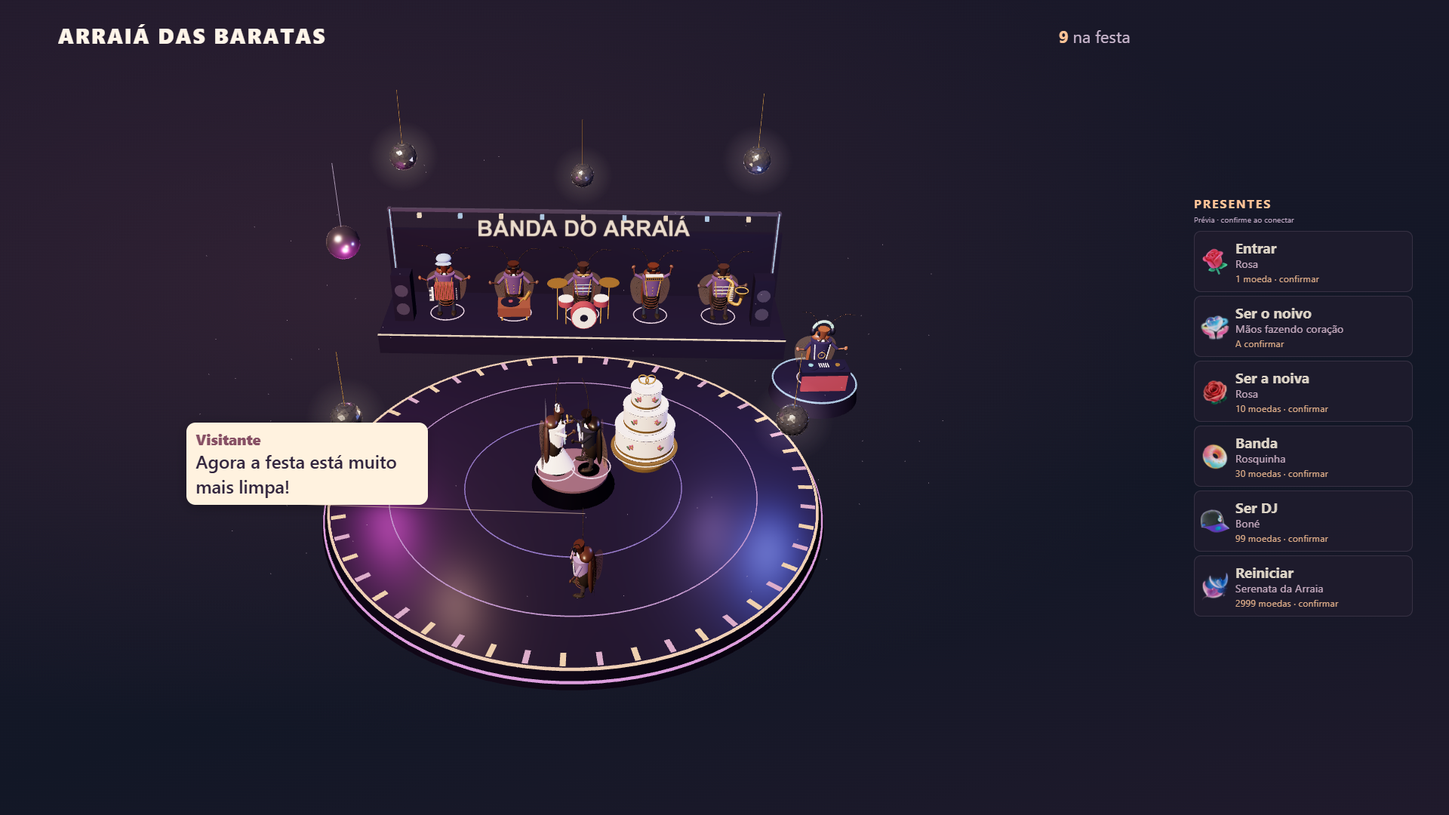
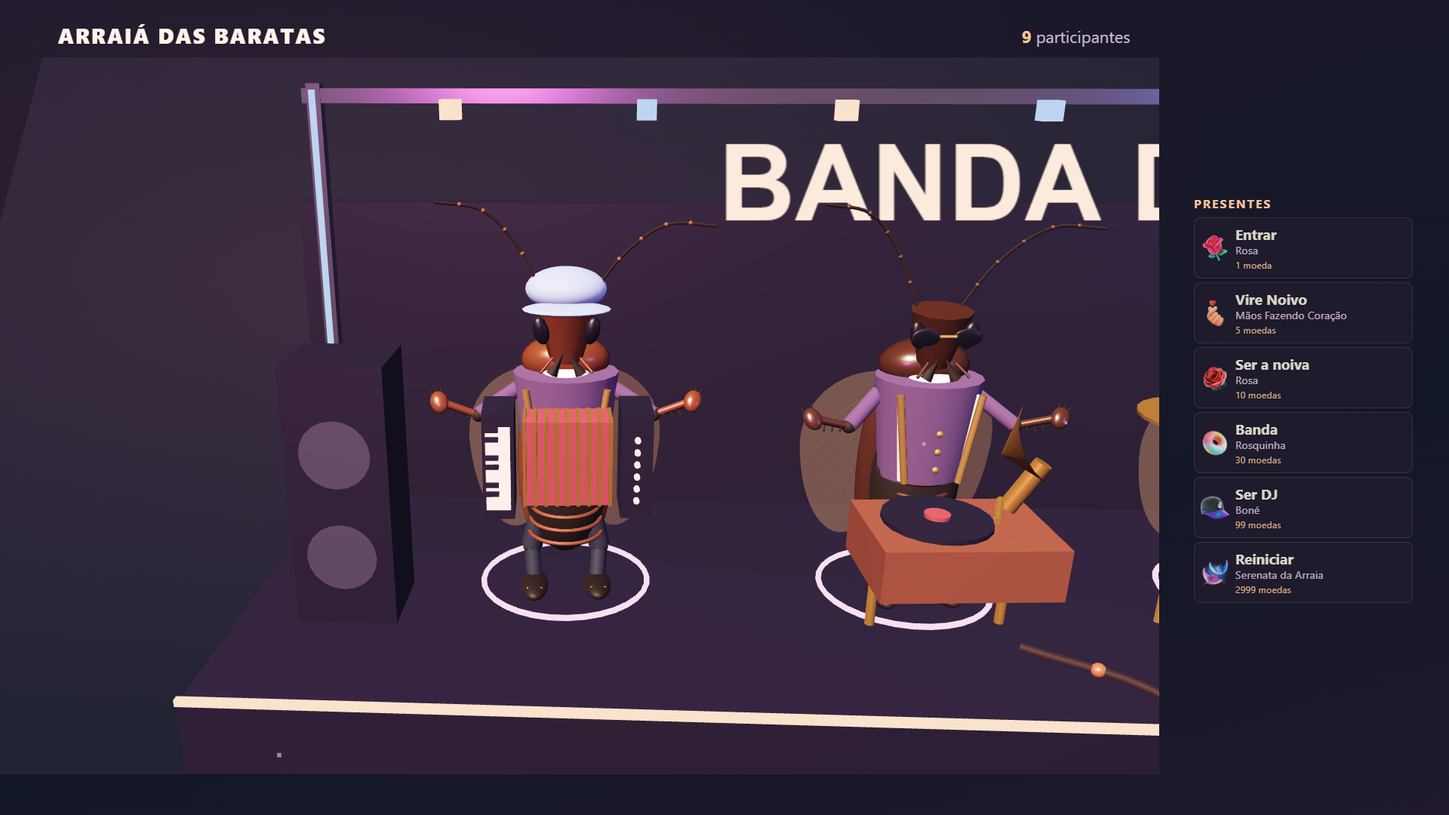
Corrige Finger Heart e eventos TikTok, povoa pista e adiciona luzes de balada

diff --git a/test.js b/test.js
@@ -1,7 +1,7 @@
 import test from 'node:test';
 import assert from 'node:assert/strict';
 import {fresh,gift,comment,prune,settings,upgradeState,partyRole,clearParty,removePerson} from './wheel.js';
-import {sceneCast,BAND} from './public/party-layout.js';
+import {sceneCast,BAND,AMBIENT_GUEST_COUNT} from './public/party-layout.js';
 import {CameraDirector} from './public/camera-director.js';
 import {placeProjectedBubble,overlaps} from './public/layout.js';
 import {videoURL,downloadArgs} from './media.js';
@@ -19,12 +19,13 @@ test('rosa de dez moedas escolhe noiva sem colidir com rosa comum',()=>{
  assert.equal(send(s,'Bia','Rosa',99),null);assert.equal(send(s,'Bia','Rosa',undefined),null);
 });
 test('noivo usa mãos coração; o Anel antigo não concede papel',()=>{
- const s=fresh();send(s,'A','Mãos fazendo coração',null);assert.equal(s.couple.groomId,'A');
+ const s=fresh();send(s,'A','Mãos Fazendo Coração',5);assert.equal(s.couple.groomId,'A');
  assert.equal(send(s,'B','Anel',30),null);assert.equal(send(s,'B','Heart Me',1,200),null);
- send(s,'B','Hand Heart',100,300);assert.equal(s.couple.groomId,'B');assert.equal(partyRole(s,'A'),null);
+ assert.equal(send(s,'B','Hand Heart',100),null);assert.equal(send(s,'B','Mãos em Coração',100),null);assert.equal(send(s,'B','Heart Hands',5),null);
+ send(s,'B','Finger Heart',5,300);assert.equal(s.couple.groomId,'B');assert.equal(partyRole(s,'A'),null);
 });
 test('cada doador tem um papel; noiva e noivo são disputados separadamente',()=>{
- const s=fresh();send(s,'A','Heart Hands',null);send(s,'B','Rosa',10);
+ const s=fresh();send(s,'A','Finger Heart',5);send(s,'B','Rosa',10);
  send(s,'C','Rosa',10,200);assert.equal(s.couple.groomId,'A');assert.equal(s.couple.brideId,'C');
  send(s,'A','Boné',99,300);assert.equal(s.couple.groomId,null);assert.equal(s.stage.djId,'A');
  send(s,'C','Rosquinha',30,400);assert.equal(s.couple.brideId,null);assert.equal(partyRole(s,'C').kind,'band');
@@ -36,7 +37,7 @@ test('banda tem cinco vagas e o sexto doador substitui a vaga mais antiga',()=>{
  send(s,'B5','Donut',30,300);assert.equal(s.people.filter(p=>p.id==='B5').length,1);assert.equal(s.stage.bandIds.filter(x=>x==='B5').length,1);
 });
 test('papéis continuam após vencer o tempo normal; substituídos retornam à roda',()=>{
- const s=fresh();send(s,'N','Heart Hands',null);send(s,'V','Rose',10);send(s,'DJ','Cap',99);send(s,'M','Donut',30);send(s,'P','Rose',1);
+ const s=fresh();send(s,'N','Finger Heart',5);send(s,'V','Rose',10);send(s,'DJ','Cap',99);send(s,'M','Donut',30);send(s,'P','Rose',1);
  prune(s,10000000);assert.equal(s.people.length,4);assert.equal(comment(s,{uniqueId:'DJ',comment:'oi'},10000000),true);
  send(s,'DJ2','Cap',99,10000001);assert.equal(partyRole(s,'DJ'),null);prune(s,20000000);assert.ok(!s.people.find(p=>p.id==='DJ'));
 });
@@ -51,7 +52,7 @@ test('combos incompletos e mensagens repetidas não reaplicam papéis',()=>{
  assert.equal(send(s,'A','Donut',30,300,{giftType:1,repeatEnd:true,msgId:'x'}),null);
 });
 test('serenata exige nome/ID correto e 2999 por unidade; reinicia toda a festa e áudio',()=>{
- const s=fresh();send(s,'N','Heart Hands',null);send(s,'V','Rose',10);send(s,'M','Donut',30);send(s,'D','Cap',99);
+ const s=fresh();send(s,'N','Finger Heart',5);send(s,'V','Rose',10);send(s,'M','Donut',30);send(s,'D','Cap',99);
  activate(s.music,'teste.mp3',100);s.music.volume=.4;const epoch=s.partyEpoch;
  assert.equal(send(s,'X','Rose',2999),null);
  assert.equal(send(s,'X','Serenata de arraia',1,200,{repeatCount:2999}),null);
@@ -68,7 +69,7 @@ test('migração instala mapa novo e mantém configurações; remover limpa o pa
  assert.throws(()=>settings({rules:[{effect:'reset',coins:99}]},s.settings));
 });
 test('cena contém cinco instrumentos, DJ e casal; nomes de doadores sem duplicatas',()=>{
- const s=fresh();assert.equal(sceneCast(s).length,8);assert.equal(BAND.length,5);
+ const s=fresh();assert.equal(sceneCast(s).length,8+AMBIENT_GUEST_COUNT);assert.equal(BAND.length,5);
  send(s,'A','Rose',1);send(s,'B','Donut',30);send(s,'C','Rose',10);send(s,'D','Cap',99);
  const cast=sceneCast(s);assert.equal(new Set(cast.map(p=>p.id)).size,cast.length);assert.equal(cast.filter(p=>p.stageRole==='band').length,5);
  assert.equal(cast.find(p=>p.id==='B').instrument,'accordion');assert.equal(cast.find(p=>p.id==='C').weddingRole,'bride');assert.equal(cast.find(p=>p.id==='D').instrument,'dj');
@@ -99,7 +100,7 @@ test('áudio protege contra eventos atrasados e controles inválidos',()=>{
 test('catálogo liga nome, imagem, ID e preço reais; não adivinha presentes pelo valor',()=>{
  const s=fresh(),gifts=sanitizeGifts([
   {id:5655,name:'Rose',diamond_count:1,image:{url_list:['https://example.com/rose.png']}},
-  {id:400,name:'Heart Me',diamond_count:1},{id:401,name:'Hand Heart',diamond_count:100},
+  {id:400,name:'Heart Me',diamond_count:1},{id:401,name:'Finger Heart',diamond_count:5},
   {id:402,name:'Outro presente',diamond_count:10},{id:403,name:'Doughnut',diamond_count:30},
   {id:404,name:'Cap',diamond_count:99},{id:405,name:'Serenata da Arraia',diamond_count:2999},
   {id:406,name:'Inválido',diamond_count:30,image:'javascript:bad'}
@@ -107,9 +108,9 @@ test('catálogo liga nome, imagem, ID e preço reais; não adivinha presentes pe
  const cards=resolveGiftCatalog(s.settings.rules,gifts,'ready'),bound=catalogRules(s.settings.rules,cards);
  assert.equal(cards.find(g=>g.effect==='marry').id,'401');assert.equal(cards.find(g=>g.effect==='bride').status,'unavailable');
  assert.equal(cards.find(g=>g.effect==='reset').name,'Serenata da Arraia');assert.equal(gifts.at(-1).image,'');
- assert.equal(gift(s,{uniqueId:'A',giftId:401,giftName:'nome localizado',diamondCount:100},100,bound)?.effect,'marry');
- assert.equal(gift(s,{uniqueId:'B',giftId:400,giftName:'Hand Heart',diamondCount:100},200,bound),null);
- assert.equal(gift(s,{uniqueId:'B',giftId:401,giftName:'Hand Heart',diamondCount:1},200,bound),null);
+ assert.equal(gift(s,{uniqueId:'A',giftId:401,giftName:'nome localizado',diamondCount:5},100,bound)?.effect,'marry');
+ assert.equal(gift(s,{uniqueId:'B',giftId:400,giftName:'Finger Heart',diamondCount:5},200,bound),null);
+ assert.equal(gift(s,{uniqueId:'B',giftId:401,giftName:'Finger Heart',diamondCount:1},200,bound),null);
  assert.equal(cards[0].image,'https://example.com/rose.png');
 });
 test('catálogo ambíguo exige seleção por ID; offline não afirma confirmação',()=>{
@@ -158,6 +159,31 @@ test('ícones são os arquivos TikTok de cada presente, sem confundir as rosas o
  assert.ok(cards.every(g=>g.image.startsWith('/gifts/')));
  assert.notEqual(cards.find(g=>g.effect==='join').image,cards.find(g=>g.effect==='bride').image);
  assert.equal(cards.find(g=>g.effect==='reset').image,'/gifts/ray-serenade.webp');
+ assert.equal(cards.find(g=>g.effect==='marry').image,'/gifts/finger-heart.webp');
+ assert.equal(cards.find(g=>g.effect==='marry').coins,5);
  assert.equal(send(s,'A','Ray Serenade',2999)?.effect,'reset');
  s.settings.rules[2].names='Item customizado';assert.equal(resolveGiftCatalog(s.settings.rules)[2].image,'');
+});
+test('eventos modernos leem extendedGiftInfo e aplicam apenas o fim do combo uma vez',()=>{
+ const s=fresh(),event={user:{uniqueId:'actual-user',nickname:'Pessoa'},giftId:42,giftDetails:{giftType:1},extendedGiftInfo:{name:'Finger Heart',diamond_count:5},common:{msgId:'gift-1'},repeatCount:3};
+ assert.equal(gift(s,{...event,repeatEnd:false},100),null);
+ assert.equal(gift(s,{...event,repeatEnd:true},200)?.effect,'marry');
+ assert.equal(s.couple.groomId,'actual-user');assert.equal(gift(s,{...event,repeatEnd:true},300),null);
+ assert.equal(s.people[0].name,'Pessoa');
+});
+test('migração do noivo troca nome, preço e IDs antigos sem mudar os outros presentes',()=>{
+ const s=fresh();s.schemaVersion=5;s.settings.rules[1]={...s.settings.rules[1],names:'Hand Heart,Mãos em coração',coins:100,ids:'401'};
+ const others=s.settings.rules.filter(r=>r.effect!=='marry');upgradeState(s);upgradeState(s);
+ const rule=s.settings.rules.find(r=>r.effect==='marry');assert.equal(rule.coins,5);assert.equal(rule.ids,'');assert.ok(!rule.names.includes('Hand Heart'));
+ assert.deepEqual(s.settings.rules.filter(r=>r.effect!=='marry'),others);
+ assert.equal(send(s,'wrong','Hand Heart',100),null);assert.equal(send(s,'right','Finger Heart',5)?.effect,'marry');
+});
+test('baratas de ambiente dão volume sem virar doadores, eventos ou participantes reais',()=>{
+ const s=fresh(),empty=sceneCast(s),ambient=empty.filter(p=>p.ambient);
+ assert.equal(ambient.length,AMBIENT_GUEST_COUNT);assert.ok(ambient.every(p=>!p.donor&&!p.name));assert.equal(s.people.length,0);
+ send(s,'real','Rose',1);const full=sceneCast(s);assert.equal(full.filter(p=>p.ambient).length,AMBIENT_GUEST_COUNT-1);
+ assert.equal(full.filter(p=>p.donor).length,1);assert.equal(s.people.length,1);
+ for(let i=0;i<AMBIENT_GUEST_COUNT;i++)send(s,'p'+i,'Rose',1);
+ assert.equal(sceneCast(s).filter(p=>p.ambient).length,0);
+ clearParty(s);assert.equal(sceneCast(s).filter(p=>p.ambient).length,AMBIENT_GUEST_COUNT);
 });

diff --git a/public/index.html b/public/index.html
@@ -3,7 +3,7 @@
 <main id="studio"><header><div><div class="eyebrow">CENTRAL DE CONTROLE</div><h1>O baile das baratas<span>.</span></h1><p>Uma rosa, uma barata em 3D. A sua comunidade vira a pista.</p></div><a class="button outline" href="/overlay.html" target="_blank">↗ Abrir cena da live</a></header>
 <section class="connection"><span class="status-led" id="statusLed"></span><div class="status-copy"><strong id="status">Conectando ao servidor…</strong><small id="transport">Eventos em tempo real</small></div><form id="connectForm"><input id="username" aria-label="Usuário TikTok" placeholder="@seuusuario" required><button>Conectar TikTok</button><button type="button" class="quiet" id="disconnect">Desconectar</button></form></section>
 <div class="stats"><article><span>NA RODA AGORA</span><strong id="peopleCount">0 <small>participantes</small></strong><i>↗</i></article><article><span>ROSAS RECEBIDAS</span><strong id="roseCount">0 <small>nesta sessão</small></strong><i>🌹</i></article><article><span>ÁUDIO DA LIVE</span><strong id="audioMetric" class="audio-metric">Pronto <small>baixar, converter e tocar</small></strong><i>♫</i></article></div>
-<div class="studio-grid"><section class="card preview-card"><div class="card-head"><div><span class="eyebrow">PALCO INTERATIVO</span><h2>A pista das baratas</h2></div><span class="pill">WEBGL · 3D</span></div><div class="preview-wrap"><iframe src="/overlay.html?preview=1" title="Prévia da cena vertical"></iframe><div class="preview-note"><span>🌹</span><strong>Uma rosa. Uma barata. Um show à parte.</strong><p>Baratas humanoides com roupas, acessórios e passos próprios. Nomes aparecem no destaque; até dois comentários ocupam espaços livres.</p><a href="/overlay.html" target="_blank">Ver em tela cheia ↗</a><div class="mini-rule">🫶 Noivo <small>Mãos fazendo coração · confirmar na live</small></div><div class="mini-rule">👰 Noiva <small>Rosa · 10 moedas</small></div><div class="mini-rule">🍩 Banda <small>Rosquinha · 30 moedas</small></div><div class="mini-rule">🧢 DJ <small>Boné · 99 moedas</small></div><div class="mini-rule">🎆 Nova festa <small>Serenata · 2999 moedas</small></div></div></div><div class="preview-footer">● Prévia sincronizada <span>OBS / TikTok Live Studio</span></div></section>
+<div class="studio-grid"><section class="card preview-card"><div class="card-head"><div><span class="eyebrow">PALCO INTERATIVO</span><h2>A pista das baratas</h2></div><span class="pill">WEBGL · 3D</span></div><div class="preview-wrap"><iframe src="/overlay.html?preview=1" title="Prévia da cena vertical"></iframe><div class="preview-note"><span>🌹</span><strong>Uma rosa. Uma barata. Um show à parte.</strong><p>Baratas humanoides com roupas, acessórios e passos próprios. Nomes aparecem no destaque; até dois comentários ocupam espaços livres.</p><a href="/overlay.html" target="_blank">Ver em tela cheia ↗</a><div class="mini-rule">🫰 Noivo <small>Mãos Fazendo Coração · 5 moedas</small></div><div class="mini-rule">👰 Noiva <small>Rosa · 10 moedas</small></div><div class="mini-rule">🍩 Banda <small>Rosquinha · 30 moedas</small></div><div class="mini-rule">🧢 DJ <small>Boné · 99 moedas</small></div><div class="mini-rule">🎆 Nova festa <small>Serenata · 2999 moedas</small></div></div></div><div class="preview-footer">● Prévia sincronizada <span>OBS / TikTok Live Studio</span></div></section>
 <div><section class="card"><div class="card-head"><h2>Laboratório de eventos</h2><span class="pill muted">SIMULADOR</span></div><p>Teste sua cena antes de abrir a live.</p><label for="testUser">Nome do participante</label><input id="testUser" value="Marina" maxlength="40"><div id="giftButtons" class="gift-buttons"></div><form id="commentForm"><label for="testComment">Comentário sobre o personagem</label><div class="inline"><input id="testComment" placeholder="Essa roda tá boa demais!" maxlength="120" required><button title="Enviar comentário">↑</button></div></form><small class="hint">Envie uma rosa primeiro para entrar na roda.</small></section><section class="card"><div class="card-head"><h2>O que está rolando</h2><span class="live-dot"></span></div><div id="log" class="log"><p class="empty">Os próximos presentes aparecem aqui.</p></div></section></div></div>
 <section class="card" id="music"><div class="card-head"><div><span class="eyebrow">DO LINK DIRETO PARA A LIVE</span><h2>Downloader de áudio</h2></div><span class="pill muted">YT-DLP · MP3 · AUTO PLAY</span></div>
 <div class="music-grid"><div><form id="downloadForm"><label for="videoURL">Link do vídeo</label><input id="videoURL" type="url" placeholder="Cole o link de um vídeo de um site compatível" required>

diff --git a/party.js b/party.js
@@ -2,7 +2,7 @@ import {partyRole} from './public/party-layout.js';
 export {partyRole};
 export const rules=[
  {label:'Entrar · Rosa',icon:'🌹',names:'Rose,Rosa',ids:'5655',coins:1,effect:'join'},
- {label:'Noivo · Mãos coração',icon:'🫶',names:'Mãos fazendo coração,Hand Heart,Heart Hands,Mãos em coração',ids:'',coins:null,effect:'marry'},
+ {label:'Noivo · Mãos Fazendo Coração',icon:'🫰',names:'Mãos Fazendo Coração,Finger Heart,Coração de Dedo',ids:'',coins:5,effect:'marry'},
  {label:'Noiva · Rosa 10',icon:'👰',names:'Rosa,Rose,Rosa de 10,Rosa 10',ids:'',coins:10,effect:'bride'},
  {label:'Banda · Rosquinha',icon:'🍩',names:'Rosquinha,Doughnut,Donut,Doughnuts',ids:'',coins:30,effect:'band'},
  {label:'DJ · Boné',icon:'🧢',names:'Boné,Cap,Baseball Cap',ids:'',coins:99,effect:'dj'},
@@ -11,14 +11,14 @@ export const rules=[
 export const defaults={title:'A RODA É SUA',subtitle:'Mande uma rosa e entre na roda!',duration:15,speed:1,capacity:24,comments:true,transparent:false,rules};
 const emptyCouple=()=>({groomId:null,brideId:null,since:null});
 const emptyStage=()=>({djId:null,bandIds:[null,null,null,null,null],bandNext:0});
-export function fresh(){return {schemaVersion:5,partyEpoch:0,couple:emptyCouple(),stage:emptyStage(),
+export function fresh(){return {schemaVersion:6,partyEpoch:0,couple:emptyCouple(),stage:emptyStage(),
  settings:structuredClone(defaults),people:[],log:[],roses:0,seenGiftIds:[],
  music:{file:null,playing:false,position:0,volume:.65,changed:Date.now(),revision:0,duration:0,queue:[]}};}
 const norm=s=>String(s??'').normalize('NFD').replace(/[\u0300-\u036f]/g,'').toLowerCase().replace(/[^\p{L}\p{N}]+/gu,' ').trim();
 export function identity(e){const u=e.user||e;return {id:String(u.uniqueId||u.userId||'visitante').slice(0,100),name:String(u.nickname||u.uniqueId||'Visitante').slice(0,40)};}
-export function giftPrice(e){const value=e.diamondCount??e.giftDetails?.diamondCount??e.gift?.diamond_count;return value==null?null:Number(value);}
+export function giftPrice(e){const value=e.diamondCount??e.giftDetails?.diamondCount??e.extendedGiftInfo?.diamond_count??e.extendedGiftInfo?.diamondCount??e.gift?.diamond_count;return value==null?null:Number(value);}
 export function matchGift(s,e,ruleSet=s.settings.rules){
- const name=norm(e.giftName||e.giftDetails?.giftName),price=giftPrice(e);
+ const name=norm(e.giftName||e.giftDetails?.giftName||e.extendedGiftInfo?.name||e.gift?.name),price=giftPrice(e);
  const byId=ruleSet.filter(r=>String(r.ids||'').split(',').some(id=>id.trim()&&id.trim()===String(e.giftId)));
  const byName=ruleSet.filter(r=>!r.catalogBound&&r.names.split(',').some(alias=>norm(alias)===name));
  const candidates=byId.length?byId:byName;
@@ -103,6 +103,7 @@ export function upgradeState(s){
   return r;
  });
  s.settings.rules=s.settings.rules.map(r=>r.effect==='reset'&&r.names.includes('Serenata da Arraia')&&!r.names.includes('Ray Serenade')?{...r,names:r.names+',Ray Serenade'}:r);
+ if((s.schemaVersion||0)<6)s.settings.rules=s.settings.rules.map(r=>r.effect==='marry'?structuredClone(rules.find(d=>d.effect==='marry')):r);
  for(const p of s.people)p.joinedAt??=p.lastGiftAt||0;
- s.schemaVersion=5;return s;
+ s.schemaVersion=6;return s;
 }

diff --git a/server.js b/server.js
@@ -5,7 +5,7 @@ import {fileURLToPath} from 'node:url';
 import {spawn} from 'node:child_process';
 import {startDownload, executable as toolPath} from './media.js';
 import {activate, control} from './music.js';
-import {fresh,defaults,gift,comment,prune,settings,upgradeState,clearParty,removePerson} from './wheel.js';
+import {fresh,defaults,gift,giftPrice,comment,prune,settings,upgradeState,clearParty,removePerson} from './wheel.js';
 import {sanitizeGifts,resolveGiftCatalog,catalogRules} from './public/gift-catalog.js';
 const ROOT=path.dirname(fileURLToPath(import.meta.url)),PUB=path.join(ROOT,'public'),MUSIC=path.join(ROOT,'music'),DATA=process.env.RODA_DATA_DIR?path.resolve(process.env.RODA_DATA_DIR):path.join(ROOT,'data');
 fs.mkdirSync(MUSIC,{recursive:true});fs.mkdirSync(DATA,{recursive:true});
@@ -17,7 +17,7 @@ const clients=new Set();let live=null,epoch=0,status={phase:'offline',message:'M
 let availableGifts=[],catalogStatus='offline';
 const giftCatalog=()=>resolveGiftCatalog(state.settings.rules,availableGifts,catalogStatus);
 async function loadGiftCatalog(conn=live,ticket=epoch){
- if(!conn)throw Error('Conecte uma live para carregar os presentes disponíveis.');
+ if(!conn||status.phase!=='online')throw Error('Conecte uma live para carregar os presentes disponíveis.');
  catalogStatus='loading';send();
  try{
   const gifts=sanitizeGifts(conn.availableGifts?.length?conn.availableGifts:await conn.fetchAvailableGifts());
@@ -41,12 +41,12 @@ async function connect(username){
  const conn=new Connection(username,{enableExtendedGiftInfo:true,processInitialData:false,...(process.env.EULER_API_KEY?{signApiKey:process.env.EULER_API_KEY}:{})});live=conn;
  conn.on('gift',e=>{if(ticket!==epoch)return;
   const known=availableGifts.find(g=>g.id===String(e.giftId));
-  const ev=gift(state,{...e,diamondCount:e.diamondCount??e.giftDetails?.diamondCount??known?.coins,
-   giftName:e.giftName||e.giftDetails?.giftName||e.gift?.name},Date.now(),catalogStatus==='ready'?catalogRules(state.settings.rules,giftCatalog()):state.settings.rules);
+  const ev=gift(state,{...e,diamondCount:giftPrice(e)??known?.coins,
+   giftName:e.giftName||e.giftDetails?.giftName||e.extendedGiftInfo?.name||e.gift?.name||known?.name},Date.now(),catalogStatus==='ready'?catalogRules(state.settings.rules,giftCatalog()):state.settings.rules);
   if(ev){if(ev.effect==='reset')activeDownload?.cancel();save();send();}});
  conn.on('chat',e=>{if(ticket===epoch&&comment(state,e))send();});
  conn.on('error',()=>{if(ticket===epoch)setStatus('error','Erro de conexão. Verifique a live e o provedor de assinatura.');});
- conn.on('disconnected',()=>{if(ticket===epoch)setStatus('offline','Conexão encerrada. Clique em Conectar para tentar novamente.');});
+ conn.on('disconnected',()=>{if(ticket===epoch){epoch++;live=null;availableGifts=[];catalogStatus='offline';setStatus('offline','Conexão encerrada. Clique em Conectar para tentar novamente.');}});
  conn.on('streamEnd',()=>{if(ticket===epoch)disconnect();});
  await conn.connect();if(ticket!==epoch){conn.disconnect();return;}setStatus('online','Ao vivo com @'+username);
  try{await loadGiftCatalog(conn,ticket);}catch{ /* The panel exposes a retry; metadata-based matching remains available. */ }

diff --git a/public/wedding-decor.js b/public/wedding-decor.js
@@ -60,9 +60,26 @@ export function addWeddingDecor(scene){
   add(group,new THREE.CylinderGeometry(.009,.009,1.7,5),gold,position[0],position[1]+1.25,position[2]);
   globes.push({globe,glow});
  }
- const lights=[new THREE.PointLight('#ffd5a0',24,17),new THREE.PointLight('#d7b4e8',20,17)];
- lights[0].position.set(-4,5,1);lights[1].position.set(5,5,-3);lights.forEach(light=>group.add(light));
+ const lights=['#64b9ff','#e57dd5'].map((color,i)=>{
+  const light=new THREE.SpotLight(color,55,24,.38,.7,1.5);light.name='Luz de balada '+(i+1);light.position.set(i?5:-5,6.3,-4);group.add(light,light.target);
+  const material=new THREE.MeshBasicMaterial({color,transparent:true,opacity:.045,depthWrite:false,side:THREE.DoubleSide,blending:THREE.AdditiveBlending});
+  const beam=new THREE.Mesh(new THREE.ConeGeometry(1,1,24,1,true),material);beam.name='Feixe de balada '+(i+1);beam.frustumCulled=false;group.add(beam);
+  const pool=new THREE.Mesh(new THREE.CircleGeometry(1.7,32),new THREE.MeshBasicMaterial({color,transparent:true,opacity:.1,depthWrite:false,blending:THREE.AdditiveBlending}));
+  pool.rotation.x=-Math.PI/2;pool.name='Luz no chão '+(i+1);group.add(pool);
+  return {light,beam,pool};
+ });
+ const beamDirection=new THREE.Vector3(),down=new THREE.Vector3(0,-1,0);
  return {cake,globes,animate(time,beat){
   globes.forEach(({globe,glow},i)=>{globe.rotation.y=time*(.12+i*.012);glow.material.opacity=.65+Math.sin(time*.7+i)*.08+beat*.06;});
+  lights.forEach(({light,beam,pool},i)=>{
+   const phase=time*.22+i*Math.PI;
+   light.target.position.set(Math.sin(phase)*4.7,.02,Math.cos(phase*.8)*3.6);
+   light.color.setHSL((time*.012+i*.34+.55)%1,.65,.62);
+   beamDirection.subVectors(light.target.position,light.position);const length=beamDirection.length();
+   beam.position.copy(light.position).addScaledVector(beamDirection,.5);
+   beam.quaternion.setFromUnitVectors(down,beamDirection.normalize());const radius=length*Math.tan(light.angle*.8);beam.scale.set(radius,length,radius);
+   beam.material.color.copy(light.color);beam.material.opacity=.035+beat*.025;
+   pool.position.copy(light.target.position);pool.material.color.copy(light.color);pool.material.opacity=.08+beat*.06;
+  });
  }};
 }

diff --git a/public/scene3d.js b/public/scene3d.js
@@ -279,7 +279,7 @@ function labelLayout(entries, now) {
 function draw(time) {
   requestAnimationFrame(draw);
   if (time - lastRender < 1000 / (preview ? 24 : high ? 60 : 30)-.5) return;
-  const dt = Math.min(.08, (time - lastTick) / 1000); lastTick = time; lastRender = time;
+  const dt = Math.max(0, (time - lastTick) / 1000); lastTick = time; lastRender = time;
   elapsed += dt * (state.settings.speed ?? 1); frame++;
   let beat = state.music.playing ? Math.max(0, Math.sin(elapsed * 7)) * .25 : .05;
   if (analyser && !audio.paused) { analyser.getByteFrequencyData(frequency); beat = frequency.slice(0, 10).reduce((a, b) => a + b, 0) / 2550; }
@@ -290,7 +290,7 @@ function draw(time) {
     const radius = counts.length === 1 ? 5.2 : [6.6,4.9][ring];
     for (let i = 0; i < count; i++) {
       const entry = dancers[index++]; if (!entry) continue;
-      const pose=floorWaltzPosition(i,count,radius,elapsed);
+      const pose=floorWaltzPosition(i,count,radius,elapsed,{solo:!!entry.person.ambient});
       entry.model.root.position.set(pose.x,.03,pose.z);
       const baseScale = .83 + (entry.model.seed % 4) * .065;
       entry.model.root.scale.setScalar(baseScale * (n > 30 ? .68 : n > 12 ? .85 : 1));
@@ -325,4 +325,4 @@ window.roda3D = {renderer, scene, camera, characters, diagnostics: () => ({frame
     position: camera.position.toArray(), aim: cameraAim.toArray(), distance: camera.position.distanceTo(cameraAim),
     greeting: characters.get(shot.targetId)?.model.isGreeting || false}})};
 $('scene').addEventListener('webglcontextlost', e => { e.preventDefault(); $('boot').hidden = false; $('boot').textContent = 'A GPU interrompeu a cena. Reabra a janela ou use o modo leve.'; });
-reconcile(preview?demo:[]); resize(); $('boot').hidden = true; requestAnimationFrame(draw);
+reconcile(sceneCast(state,preview?demo:[])); resize(); $('boot').hidden = true; requestAnimationFrame(draw);

diff --git a/public/gift-catalog.js b/public/gift-catalog.js
@@ -1,5 +1,5 @@
 import {giftArtwork} from './gift-artwork.js';
-export const giftActions = {join:'Entrar',marry:'Ser o noivo',bride:'Ser a noiva',band:'Banda',dj:'Ser DJ',reset:'Reiniciar'};
+export const giftActions = {join:'Entrar',marry:'Vire Noivo',bride:'Ser a noiva',band:'Banda',dj:'Ser DJ',reset:'Reiniciar'};
 const normalize = value => String(value ?? '').normalize('NFD').replace(/[\u0300-\u036f]/g,'').toLowerCase().replace(/[^\p{L}\p{N}]+/gu,' ').trim();
 const aliases = value => String(value || '').split(',').map(normalize).filter(Boolean);
 export function sanitizeGifts(raw) {
@@ -37,8 +37,8 @@ export function renderGiftCatalog(container, cards) {
   if (g.image) {const img = document.createElement('img');img.src = g.image;img.alt = g.name;img.referrerPolicy='no-referrer';img.onerror=missing;icon.append(img);}else missing();
   const info = document.createElement('div'),action = document.createElement('strong'),name = document.createElement('span'),price = document.createElement('small');
   action.textContent = g.action;name.textContent = g.name;
-  const coins=g.coins+' '+(g.coins===1?'moeda':'moedas');
-  price.textContent = g.status === 'verified' ? coins : g.status === 'unavailable' ? 'Indisponível nesta live' : g.status === 'ambiguous' ? 'Selecionar no painel' : (g.coins == null ? 'A confirmar' : coins + ' · confirmar');
+  const coins=g.coins==null?'':g.coins+' '+(g.coins===1?'moeda':'moedas');
+  price.textContent = g.status === 'unavailable' ? 'Indisponível nesta live' : g.status === 'ambiguous' ? 'Ver painel' : coins;
   info.append(action,name,price);card.append(icon,info);return card;
  }));
 }

diff --git a/public/overlay.html b/public/overlay.html
@@ -5,10 +5,10 @@
 <link rel="stylesheet" href="/overlay.css"></head><body>
 <div id="backdrop"></div><div id="viewport"><canvas id="scene" aria-label="Festa de baratas dançando em 3D"></canvas></div>
 <svg id="connectors" aria-hidden="true"></svg><div id="labels"></div>
-<header class="live-header"><h1 id="sceneTitle">ARRAIÁ DAS BARATAS</h1><span class="scene-count"><strong id="count">0</strong> na festa</span><p id="sceneSubtitle" hidden></p></header>
+<header class="live-header"><h1 id="sceneTitle">ARRAIÁ DAS BARATAS</h1><span class="scene-count"><strong id="count">0</strong> participantes</span><p id="sceneSubtitle" hidden></p></header>
 <div id="finale" hidden><strong>🎆 NOVA FESTA!</strong><span id="finaleName"></span><small>Todos os papéis estão livres de novo.</small></div>
 <div id="demoHint" hidden></div><div id="eventToast" aria-live="polite"></div>
-<aside class="live-footer gift-sidebar"><div class="catalog-heading"><span>PRESENTES</span><small id="catalogStatus">Prévia · confirme ao conectar</small></div>
+<aside class="live-footer gift-sidebar"><div class="catalog-heading"><span>PRESENTES</span><small id="catalogStatus" hidden></small></div>
 <div id="giftCatalog" class="gift-catalog" aria-label="Presentes e ações da festa"></div>
 <div id="nowTrack" hidden><span class="equalizer"><i></i><i></i><i></i></span><span id="trackLabel"></span></div></aside>
 <div id="windowTools"><button id="enable">♫ Ativar áudio</button><button id="fullscreen">⛶ Tela cheia</button><button id="quality">Qualidade: Full HD</button></div>

diff --git a/public/party-layout.js b/public/party-layout.js
@@ -5,6 +5,8 @@ export const BAND = Object.freeze([
  {id:'harmonica',label:'Gaita',icon:'🎵',position:[2.7,.56,-10]},
  {id:'saxophone',label:'Saxofone',icon:'🎷',position:[5.4,.56,-10]}
 ]);
+export const AMBIENT_GUEST_COUNT=10;
+const ambientGuests=Array.from({length:AMBIENT_GUEST_COUNT},(_,i)=>({id:'@ambient:'+i,name:'',ambient:true,donor:false}));
 export function partyRole(state,id){
  if(!id)return null;
  if(state.couple?.groomId===id)return {kind:'groom',label:'Noivo',icon:'🤵'};
@@ -18,7 +20,7 @@ export function sceneCast(state,demo=[]){
  const staff=(id,slot,props)=>({...find(id),id:id||'@stage:'+slot,name:find(id)?.name||props.roleLabel,
    donor:!!id,stageResident:true,...props});
  const dancers=(state.people.length?state.people:demo).filter(p=>!partyRole(state,p.id)).map(p=>({...p,donor:!p.demo}));
- return [...dancers,
+ return [...dancers,...ambientGuests.slice(0,Math.max(0,AMBIENT_GUEST_COUNT-dancers.length)),
    staff(state.couple?.brideId,'bride',{stageRole:'bride',weddingRole:'bride',roleLabel:'Noiva · Rosa 10',icon:'👰',position:[-.72,.55,0]}),
    staff(state.couple?.groomId,'groom',{stageRole:'groom',weddingRole:'groom',roleLabel:'Noivo · Coração',icon:'🤵',position:[.72,.55,0]}),
    ...BAND.map((instrument,i)=>staff(state.stage?.bandIds?.[i],'band-'+i,{stageRole:'band',instrument:instrument.id,

diff --git a/public/waltz.js b/public/waltz.js
@@ -11,11 +11,11 @@ export function coupleWaltzPose(time,role){
  return {x:side*.58*Math.cos(pose.turn)+pose.side*.4,z:-side*.58*Math.sin(pose.turn)+pose.forward*.3,
   rotation:pose.turn-side*Math.PI/2};
 }
-export function floorWaltzPosition(index,count,radius,time) {
+export function floorWaltzPosition(index,count,radius,time,{solo=false}={}) {
  const pose=waltzPose(time),pair=Math.floor(index/2),pairs=Math.ceil(count/2);
- const angle=pair/pairs*Math.PI*2+time*.055;
- const solo=index===count-1&&count%2===1,turn=pose.turn+(index%2)*Math.PI;
- const reach=solo?0:.58;
+ const angle=(solo?index/count:pair/pairs)*Math.PI*2+time*.055;
+ const unpaired=solo||index===count-1&&count%2===1,turn=pose.turn+(index%2)*Math.PI;
+ const reach=unpaired?0:.58;
  return {x:Math.sin(angle)*(radius+pose.forward)+Math.cos(turn)*reach+pose.side,
   z:Math.cos(angle)*(radius+pose.forward)+Math.sin(turn)*reach,rotation:-turn-Math.PI/2};
 }

diff --git a/public/gift-artwork.js b/public/gift-artwork.js
@@ -1,7 +1,7 @@
 // Reference artwork from TikTok's CDN; a connected room always supplies the current item.
 export const giftArtwork={
  join:{name:'Rosa',coins:1,aliases:['Rose','Rosa'],image:'/gifts/rose.webp'},
- marry:{name:'Mãos fazendo coração',coins:null,aliases:['Mãos fazendo coração','Hand Heart','Heart Hands','Mãos em coração'],image:'/gifts/hand-heart.webp'},
+ marry:{name:'Mãos Fazendo Coração',coins:5,aliases:['Mãos Fazendo Coração','Finger Heart','Coração de Dedo'],image:'/gifts/finger-heart.webp'},
  bride:{name:'Rosa',coins:10,aliases:['Rosa','Rose','Rosa de 10','Rosa 10'],image:'/gifts/rosa.webp'},
  band:{name:'Rosquinha',coins:30,aliases:['Rosquinha','Doughnut','Donut','Doughnuts'],image:'/gifts/doughnut.webp'},
  dj:{name:'Boné',coins:99,aliases:['Boné','Cap','Baseball Cap'],image:'/gifts/cap.webp'},

diff --git a/docs/live-studio.md b/docs/live-studio.md
@@ -10,9 +10,9 @@ A festa ocupa a área à esquerda, com cabeçalho mínimo e os seis presentes em
 
 Ao conectar, o servidor consulta `fetchAvailableGifts()` do conector instalado e recebe os itens da sala. A correspondência exige ID selecionado ou nome equivalente exato, além do custo por unidade. O overlay usa nome, imagem e preço retornados, sem inventar IDs ou escolher apenas pelo preço. Itens não encontrados ficam indisponíveis; variantes ambíguas exigem seleção no painel. Na operação com catálogo confirmado, eventos usam apenas os IDs confirmados. O catálogo não é persistido entre conexões, para evitar usar itens de outra sala.
 
-`Heart Me` foi removido dos sinônimos de mãos fazendo coração. O preset aceita `Hand Heart`, `Heart Hands` e traduções configuradas, mas a confirmação depende do item da sala. A Serenata inclui os nomes `Serenata da Arraia` e `Ray Serenade`. Os ícones de referência são arquivos originais do CDN do TikTok, incluindo a Rosa de 10 moedas e as arraias. Veja [origens das imagens](../public/gifts/SOURCES.md). Ao conectar, as imagens da sala substituem essas referências. A suposta rosa de 10 moedas só será habilitada se existir um item correspondente no catálogo; dez rosas de uma moeda continuam sendo entrada na roda.
+O noivo usa **Mãos Fazendo Coração / Finger Heart**, configurado para 5 moedas e com a imagem específica do gesto de dedos. `Hand Heart` / Mãos em Coração, `Heart Hands` e `Heart Me` não são aceitos para esse papel. A migração para o estado 6 limpa o vínculo antigo do noivo, sem mudar os outros presentes. A Serenata inclui os nomes `Serenata da Arraia` e `Ray Serenade`. Os ícones de referência são arquivos originais do CDN do TikTok, incluindo a Rosa de 10 moedas e as arraias. Veja [origens das imagens](../public/gifts/SOURCES.md). Ao conectar, as imagens da sala substituem essas referências. A suposta rosa de 10 moedas só será habilitada se existir um item correspondente no catálogo; dez rosas de uma moeda continuam sendo entrada na roda.
 
-Os presentes e preços nos presets são a configuração pedida para o jogo; não foram validados na conta do criador porque nenhuma live estava conectada durante o desenvolvimento. No modo local, o catálogo sinaliza que é prévia. O simulador continua funcionando para os testes sem gastar moedas.
+Os presentes e preços nos presets são a configuração pedida para o jogo; não foram validados na conta do criador porque nenhuma live estava conectada durante o desenvolvimento. O status de modo local e da sincronização fica no painel; o catálogo exibido ao público não inclui textos de confirmação. O simulador continua funcionando para os testes sem gastar moedas.
 
 ## Fontes consultadas em 17/11/2026
 
@@ -27,3 +27,10 @@ O overlay foi validado em navegador local nas duas orientações. A qualidade fi
 Em 17/11/2026, o TikTok LIVE Studio 1.39.6 foi aberto neste computador para testar a fonte. A tela inicial apresentou **Sem acesso**. Não foi iniciada transmissão nem alterada a conta. Não foi possível confirmar a qualidade dentro da captura ou salvar uma cena no aplicativo. Os testes de renderização e enquadramento são de navegador local, não evidência de transmissão no TikTok.
 
 O enquadramento do overlay está salvo no projeto e acompanha a fonte em 1080 × 1920 ou 1920 × 1080. Ainda será necessário adicionar/salvar a fonte no LIVE Studio quando o editor estiver acessível. Nenhum arquivo interno de configuração do TikTok foi sobrescrito.
+## Integração de eventos revisada
+
+Foram consultadas as páginas oficiais [Webhooks — Overview](https://developers.tiktok.com/docs/en/webhooks-overview) e [Webhooks — Events](https://developers.tiktok.com/docs/en/webhooks-events). A lista pública consultada descreve eventos de autorização, publicação de vídeos e portabilidade; não documenta um webhook de presentes de LIVE. Isso não permite apresentar este projeto como uma integração oficial de presentes por esses webhooks. A página de ajuda de Presentes foi consultada pelo resultado indexado, mas o corpo não retornou texto legível nesta sessão.
+
+A recepção de presentes continua usando o conector comunitário instalado. Sua documentação primária está em [Gift](https://github.com/zerodytrash/TikTok-Live-Connector#gift) e [catálogo](https://github.com/zerodytrash/TikTok-Live-Connector#retrieve-available-gifts). A leitura aceita `giftDetails` e `extendedGiftInfo`, usa ID e preço unitário do catálogo, processa combos no encerramento e impede repetição pelo ID da mensagem. Ao perder a conexão, o catálogo da sala é invalidado. Nenhuma credencial TikTok foi criada, enviada ou substituída nesta alteração.
+
+A distinção visual entre os dois gestos foi conferida nas imagens do CDN do TikTok. Os nomes em português foram cruzados com o [índice de presentes](https://streamember.com/pt/tiktok/presentes/finger-heart/). Nomes, ID, custo e disponibilidade da conta continuam sendo resolvidos pelo catálogo da sala conectada. Os testes incluem eventos no formato do conector, porém não substituem o envio de um presente em uma LIVE real.
